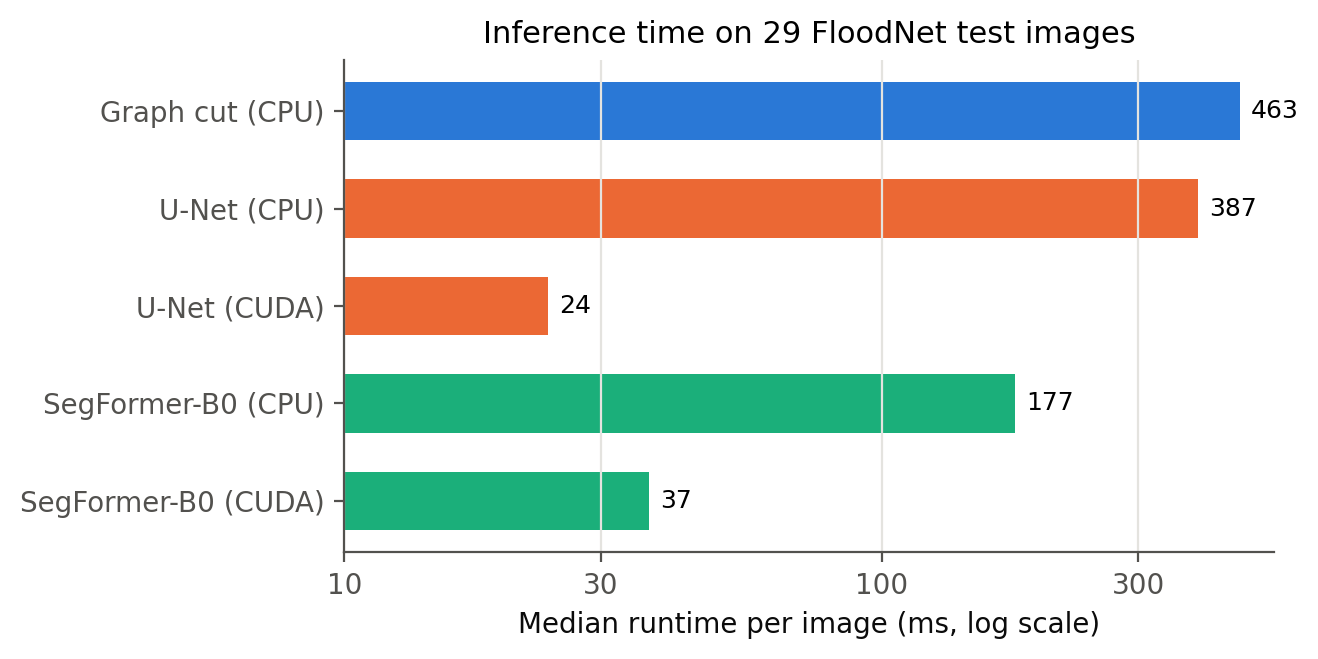
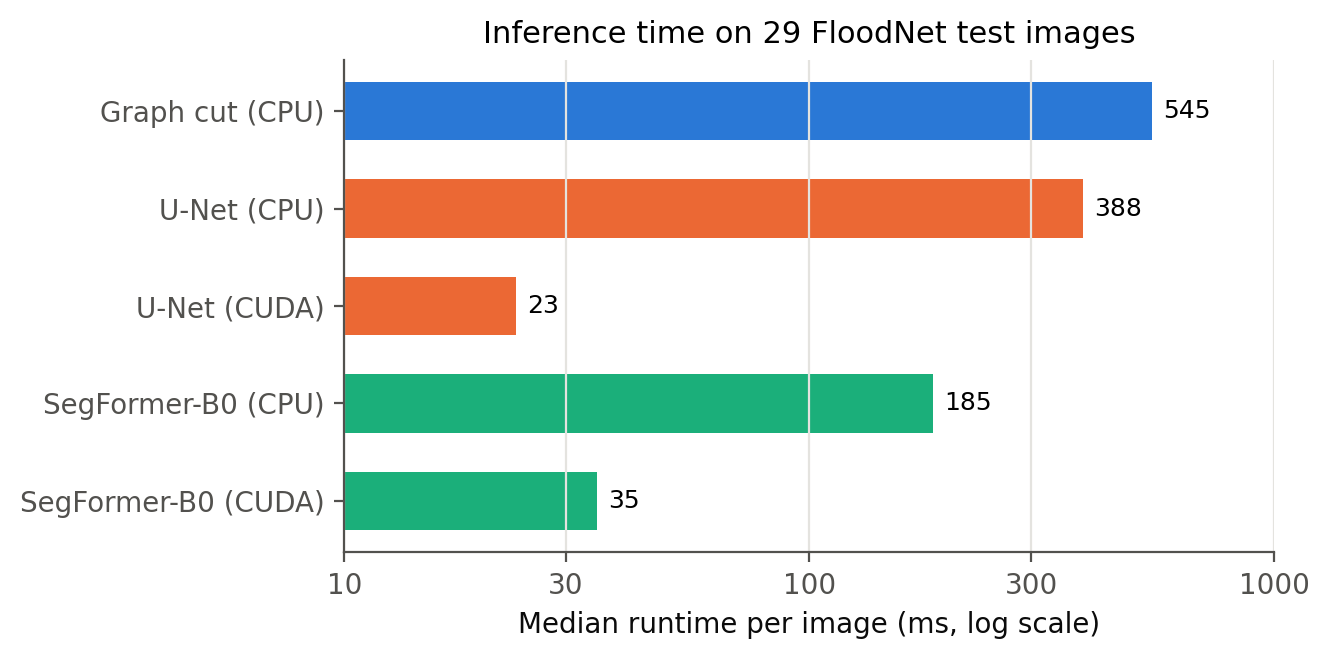
refresh efficiency and sanity-check results with the new graph-cut features

diff --git a/results/SUMMARY.md b/results/SUMMARY.md
@@ -25,11 +25,11 @@ Numbers only; generated by `scripts/run_experiments.py`.
 
 | method     | name         | device   |   runtime_ms_median |   runtime_ms_p90 |   params_m |   train_min |
 |:-----------|:-------------|:---------|--------------------:|-----------------:|-----------:|------------:|
-| classical  | Graph cut    | CPU      |              462.6  |           779.76 |       0    |       33.17 |
-| scratch    | U-Net        | CPU      |              387.16 |           395.98 |       7.76 |       53.65 |
-| scratch    | U-Net        | CUDA     |               23.95 |            26.33 |       7.76 |       53.65 |
-| pretrained | SegFormer-B0 | CPU      |              176.75 |           180.06 |       3.71 |       32.85 |
-| pretrained | SegFormer-B0 | CUDA     |               36.81 |            42.52 |       3.71 |       32.85 |
+| classical  | Graph cut    | CPU      |              545.49 |           893.44 |       0    |       33.17 |
+| scratch    | U-Net        | CPU      |              388.34 |           404.77 |       7.76 |       53.65 |
+| scratch    | U-Net        | CUDA     |               23.42 |            26.24 |       7.76 |       53.65 |
+| pretrained | SegFormer-B0 | CPU      |              184.88 |           201.3  |       3.71 |       32.85 |
+| pretrained | SegFormer-B0 | CUDA     |               35.01 |            59.34 |       3.71 |       32.85 |
 
 ## 4. Domain shift: FloodNet-only vs mixed training on each test set
 
